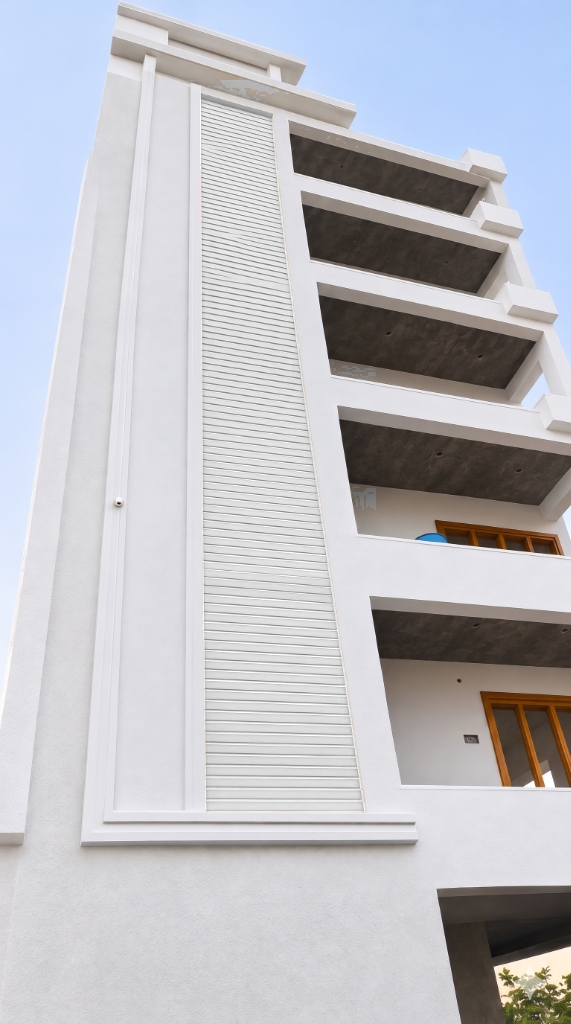
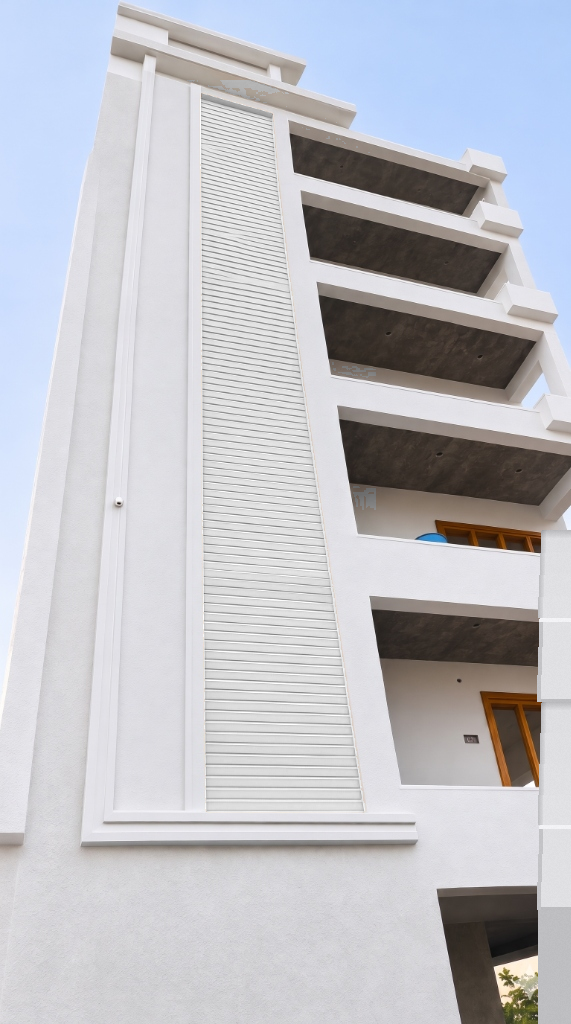
feat: add 5-floor continuous right balcony structural pillar, corner box blocks, and ground stilt pillars (Zone 9 & 17)

Changed region(s): [[0.9229, 0.5, 1.0, 1.0]]

diff --git a/app.js b/app.js
@@ -104,13 +104,13 @@ const ZONES = {
   },
   9: {
     id: 9, key: "balcony_box", group: "5-Floor Balcony Structure",
-    name: "Balcony Right-Corner Box Blocks & Pillars", shortName: "Corner Box Blocks",
-    aliases: ["corner", "corner box", "pillars", "balcony box", "right pillar"],
+    name: "Balcony Right-Corner Vertical Pillars & Box Blocks", shortName: "Balcony Corner Pillar",
+    aliases: ["pillar", "pillars", "corner", "corner pillar", "balcony pillar", "corner box", "balcony box", "right pillar", "vertical pillar", "another pillar"],
     pinColor: "#14b8a6",
-    pins: { render: {x:"90%", y:"38%"}, front: {x:"88%", y:"40%"}, side: {x:"66%", y:"40%"} },
-    surfaceType: "Protruding 3D Corner Blocks & Right Vertical Columns",
+    pins: { render: {x:"95%", y:"56%"}, front: {x:"88%", y:"40%"}, side: {x:"66%", y:"40%"} },
+    surfaceType: "Continuous Vertical Structural Pillar & 3D Corner Blocks Across All 5 Balcony Floors",
     recommendedProduct: "Apex Ultima Protek Duralife",
-    defaultColorId: 2
+    defaultColorId: 3
   },
   10: {
     id: 10, key: "balcony_inner", group: "5-Floor Balcony Structure",
@@ -181,31 +181,41 @@ const ZONES = {
     surfaceType: "3 Metal Entrance Gates with Enamel Finish",
     recommendedProduct: "Asian Paints Apcolite Premium Gloss Enamel",
     defaultColorId: 1
+  },
+  17: {
+    id: 17, key: "stilt_pillars", group: "Side Elevation & Street Compound (KKKKKKK)",
+    name: "Ground Stilt Parking Columns & Gate Pillars", shortName: "Stilt & Gate Pillars",
+    aliases: ["stilt", "stilt pillar", "stilt column", "parking column", "gate pillar", "gate post"],
+    pinColor: "#0284c7",
+    pins: { render: {x:"95%", y:"95%"}, front: {x:"50%", y:"84%"}, side: {x:"42%", y:"80%"} },
+    surfaceType: "Ground Floor Heavy-Duty Parking Columns & Entrance Gate Concrete Posts",
+    recommendedProduct: "Apex Ultima Protek Duralife",
+    defaultColorId: 3
   }
 };
 
 // 3. PRE-GENERATED 20 ALL-COMBINATION VARIATIONS
 const COMBINATIONS_GALLERY = [
-  { id: 1,  title: "Signature Gold & Charcoal",              file: "images/combinations/combo_2_3_1_2_3.jpg", map: {1:2, 2:3, 3:3, 4:2, 5:3, 6:1, 7:1, 8:2, 9:2, 10:7, 11:3, 12:8, 13:2, 14:3, 15:2, 16:1}, tag: "louvers-1" },
-  { id: 2,  title: "Brown Paper Louvers & Charcoal Trim",    file: "images/combinations/combo_2_3_5_2_3.jpg", map: {1:2, 2:3, 3:3, 4:2, 5:3, 6:5, 7:5, 8:2, 9:2, 10:7, 11:3, 12:8, 13:2, 14:3, 15:2, 16:5}, tag: "louvers-5" },
-  { id: 3,  title: "Stone Path Louvers & Charcoal Trim",     file: "images/combinations/combo_2_3_4_2_3.jpg", map: {1:2, 2:3, 3:3, 4:2, 5:3, 6:4, 7:4, 8:2, 9:2, 10:7, 11:3, 12:8, 13:2, 14:3, 15:2, 16:4}, tag: "louvers-4" },
-  { id: 4,  title: "Ice Age Louvers & Charcoal Frame",       file: "images/combinations/combo_2_3_2_2_3.jpg", map: {1:2, 2:3, 3:3, 4:2, 5:3, 6:2, 7:1, 8:2, 9:2, 10:7, 11:3, 12:8, 13:2, 14:3, 15:2, 16:3}, tag: "louvers-2" },
-  { id: 5,  title: "Monolith Charcoal Louvers & Trim",       file: "images/combinations/combo_2_3_3_2_3.jpg", map: {1:2, 2:3, 3:3, 4:2, 5:3, 6:3, 7:1, 8:2, 9:2, 10:7, 11:3, 12:8, 13:2, 14:3, 15:2, 16:3}, tag: "louvers-3" },
-  { id: 6,  title: "Slate Facade & Gold Louvers",            file: "images/combinations/combo_4_2_1_4_3.jpg", map: {1:4, 2:2, 3:2, 4:4, 5:2, 6:1, 7:1, 8:4, 9:2, 10:7, 11:3, 12:8, 13:4, 14:2, 15:4, 16:1}, tag: "louvers-1" },
-  { id: 7,  title: "Slate Facade & Brown Paper Louvers",     file: "images/combinations/combo_4_2_5_4_3.jpg", map: {1:4, 2:2, 3:2, 4:4, 5:2, 6:5, 7:5, 8:4, 9:2, 10:7, 11:3, 12:8, 13:4, 14:2, 15:4, 16:5}, tag: "louvers-5" },
-  { id: 8,  title: "Slate Facade & Charcoal Louvers",        file: "images/combinations/combo_4_2_3_4_3.jpg", map: {1:4, 2:2, 3:2, 4:4, 5:2, 6:3, 7:1, 8:4, 9:2, 10:7, 11:3, 12:8, 13:4, 14:2, 15:4, 16:3}, tag: "louvers-3" },
-  { id: 9,  title: "Slate Facade & Ice Age Louvers",         file: "images/combinations/combo_4_2_2_4_3.jpg", map: {1:4, 2:2, 3:2, 4:4, 5:2, 6:2, 7:1, 8:4, 9:2, 10:7, 11:3, 12:8, 13:4, 14:2, 15:4, 16:2}, tag: "louvers-2" },
-  { id: 10, title: "Dual-Tone Slate Tower & Ice Balconies",  file: "images/combinations/combo_4_3_1_2_3.jpg", map: {1:4, 2:3, 3:3, 4:2, 5:3, 6:1, 7:1, 8:2, 9:3, 10:7, 11:3, 12:8, 13:4, 14:3, 15:2, 16:1}, tag: "louvers-1" },
-  { id: 11, title: "Warm Earth Frame & Gold Louvers",        file: "images/combinations/combo_2_5_1_2_5.jpg", map: {1:2, 2:5, 3:5, 4:2, 5:5, 6:1, 7:6, 8:2, 9:5, 10:7, 11:5, 12:8, 13:2, 14:5, 15:2, 16:1}, tag: "louvers-1" },
-  { id: 12, title: "Brown Paper Frame & Charcoal Louvers",   file: "images/combinations/combo_2_5_3_2_3.jpg", map: {1:2, 2:5, 3:5, 4:2, 5:5, 6:3, 7:3, 8:2, 9:5, 10:7, 11:3, 12:8, 13:2, 14:5, 15:2, 16:3}, tag: "louvers-3" },
-  { id: 13, title: "Seamless Brown Paper Feature Wall",      file: "images/combinations/combo_2_5_5_2_3.jpg", map: {1:2, 2:5, 3:5, 4:5, 5:3, 6:5, 7:6, 8:2, 9:3, 10:7, 11:3, 12:8, 13:2, 14:5, 15:2, 16:5}, tag: "louvers-5" },
-  { id: 14, title: "Brown Paper Tower & Gold Louvers",       file: "images/combinations/combo_5_3_1_2_3.jpg", map: {1:5, 2:3, 3:3, 4:2, 5:3, 6:1, 7:1, 8:2, 9:3, 10:7, 11:3, 12:8, 13:5, 14:3, 15:5, 16:1}, tag: "louvers-1" },
-  { id: 15, title: "Warm Latte Facade & Charcoal Slats",     file: "images/combinations/combo_5_2_3_5_3.jpg", map: {1:5, 2:2, 3:2, 4:5, 5:2, 6:3, 7:1, 8:5, 9:2, 10:7, 11:3, 12:8, 13:5, 14:2, 15:5, 16:3}, tag: "louvers-3" },
-  { id: 16, title: "Minimalist Ice Age & Gold Slats",        file: "images/combinations/combo_2_2_1_2_4.jpg", map: {1:2, 2:2, 3:2, 4:2, 5:2, 6:1, 7:1, 8:2, 9:2, 10:7, 11:4, 12:8, 13:2, 14:4, 15:2, 16:1}, tag: "louvers-1" },
-  { id: 17, title: "Stone Path Trim & Brown Paper Slats",    file: "images/combinations/combo_2_4_5_4_3.jpg", map: {1:2, 2:4, 3:4, 4:2, 5:4, 6:5, 7:5, 8:4, 9:2, 10:7, 11:3, 12:8, 13:2, 14:4, 15:2, 16:5}, tag: "louvers-5" },
-  { id: 18, title: "Bold Charcoal Tower & Ice Balconies",    file: "images/combinations/combo_3_2_1_2_3.jpg", map: {1:3, 2:2, 3:2, 4:3, 5:2, 6:1, 7:1, 8:2, 9:3, 10:7, 11:3, 12:8, 13:3, 14:2, 15:2, 16:1}, tag: "louvers-1" },
-  { id: 19, title: "Slate Wall, Brown Trim & Ice Slats",     file: "images/combinations/combo_4_5_2_2_3.jpg", map: {1:4, 2:5, 3:5, 4:2, 5:5, 6:2, 7:6, 8:2, 9:5, 10:7, 11:3, 12:8, 13:4, 14:5, 15:4, 16:5}, tag: "louvers-2" },
-  { id: 20, title: "Tri-Color Gold, Charcoal & Brown Paper", file: "images/combinations/combo_2_3_1_5_3.jpg", map: {1:2, 2:3, 3:3, 4:5, 5:3, 6:1, 7:6, 8:5, 9:3, 10:7, 11:3, 12:8, 13:2, 14:3, 15:5, 16:1}, tag: "louvers-1" }
+  { id: 1,  title: "Signature Gold & Charcoal",              file: "images/combinations/combo_2_3_1_2_3.jpg", map: {1:2, 2:3, 3:3, 4:2, 5:3, 6:1, 7:1, 8:2, 9:3, 10:7, 11:3, 12:8, 13:2, 14:3, 15:2, 16:1, 17:3}, tag: "louvers-1" },
+  { id: 2,  title: "Brown Paper Louvers & Charcoal Trim",    file: "images/combinations/combo_2_3_5_2_3.jpg", map: {1:2, 2:3, 3:3, 4:2, 5:3, 6:5, 7:5, 8:2, 9:3, 10:7, 11:3, 12:8, 13:2, 14:3, 15:2, 16:5, 17:3}, tag: "louvers-5" },
+  { id: 3,  title: "Stone Path Louvers & Charcoal Trim",     file: "images/combinations/combo_2_3_4_2_3.jpg", map: {1:2, 2:3, 3:3, 4:2, 5:3, 6:4, 7:4, 8:2, 9:3, 10:7, 11:3, 12:8, 13:2, 14:3, 15:2, 16:4, 17:3}, tag: "louvers-4" },
+  { id: 4,  title: "Ice Age Louvers & Charcoal Frame",       file: "images/combinations/combo_2_3_2_2_3.jpg", map: {1:2, 2:3, 3:3, 4:2, 5:3, 6:2, 7:1, 8:2, 9:3, 10:7, 11:3, 12:8, 13:2, 14:3, 15:2, 16:3, 17:3}, tag: "louvers-2" },
+  { id: 5,  title: "Monolith Charcoal Louvers & Trim",       file: "images/combinations/combo_2_3_3_2_3.jpg", map: {1:2, 2:3, 3:3, 4:2, 5:3, 6:3, 7:1, 8:2, 9:3, 10:7, 11:3, 12:8, 13:2, 14:3, 15:2, 16:3, 17:3}, tag: "louvers-3" },
+  { id: 6,  title: "Slate Facade & Gold Louvers",            file: "images/combinations/combo_4_2_1_4_3.jpg", map: {1:4, 2:2, 3:2, 4:4, 5:2, 6:1, 7:1, 8:4, 9:2, 10:7, 11:3, 12:8, 13:4, 14:2, 15:4, 16:1, 17:2}, tag: "louvers-1" },
+  { id: 7,  title: "Slate Facade & Brown Paper Louvers",     file: "images/combinations/combo_4_2_5_4_3.jpg", map: {1:4, 2:2, 3:2, 4:4, 5:2, 6:5, 7:5, 8:4, 9:2, 10:7, 11:3, 12:8, 13:4, 14:2, 15:4, 16:5, 17:2}, tag: "louvers-5" },
+  { id: 8,  title: "Slate Facade & Charcoal Louvers",        file: "images/combinations/combo_4_2_3_4_3.jpg", map: {1:4, 2:2, 3:2, 4:4, 5:2, 6:3, 7:1, 8:4, 9:2, 10:7, 11:3, 12:8, 13:4, 14:2, 15:4, 16:3, 17:2}, tag: "louvers-3" },
+  { id: 9,  title: "Slate Facade & Ice Age Louvers",         file: "images/combinations/combo_4_2_2_4_3.jpg", map: {1:4, 2:2, 3:2, 4:4, 5:2, 6:2, 7:1, 8:4, 9:2, 10:7, 11:3, 12:8, 13:4, 14:2, 15:4, 16:2, 17:2}, tag: "louvers-2" },
+  { id: 10, title: "Dual-Tone Slate Tower & Ice Balconies",  file: "images/combinations/combo_4_3_1_2_3.jpg", map: {1:4, 2:3, 3:3, 4:2, 5:3, 6:1, 7:1, 8:2, 9:3, 10:7, 11:3, 12:8, 13:4, 14:3, 15:2, 16:1, 17:3}, tag: "louvers-1" },
+  { id: 11, title: "Warm Earth Frame & Gold Louvers",        file: "images/combinations/combo_2_5_1_2_5.jpg", map: {1:2, 2:5, 3:5, 4:2, 5:5, 6:1, 7:6, 8:2, 9:5, 10:7, 11:5, 12:8, 13:2, 14:5, 15:2, 16:1, 17:5}, tag: "louvers-1" },
+  { id: 12, title: "Brown Paper Frame & Charcoal Louvers",   file: "images/combinations/combo_2_5_3_2_3.jpg", map: {1:2, 2:5, 3:5, 4:2, 5:5, 6:3, 7:3, 8:2, 9:5, 10:7, 11:3, 12:8, 13:2, 14:5, 15:2, 16:3, 17:3}, tag: "louvers-3" },
+  { id: 13, title: "Seamless Brown Paper Feature Wall",      file: "images/combinations/combo_2_5_5_2_3.jpg", map: {1:2, 2:5, 3:5, 4:5, 5:3, 6:5, 7:6, 8:2, 9:3, 10:7, 11:3, 12:8, 13:2, 14:5, 15:2, 16:5, 17:3}, tag: "louvers-5" },
+  { id: 14, title: "Brown Paper Tower & Gold Louvers",       file: "images/combinations/combo_5_3_1_2_3.jpg", map: {1:5, 2:3, 3:3, 4:2, 5:3, 6:1, 7:1, 8:2, 9:3, 10:7, 11:3, 12:8, 13:5, 14:3, 15:5, 16:1, 17:3}, tag: "louvers-1" },
+  { id: 15, title: "Warm Latte Facade & Charcoal Slats",     file: "images/combinations/combo_5_2_3_5_3.jpg", map: {1:5, 2:2, 3:2, 4:5, 5:2, 6:3, 7:1, 8:5, 9:2, 10:7, 11:3, 12:8, 13:5, 14:2, 15:5, 16:3, 17:2}, tag: "louvers-3" },
+  { id: 16, title: "Minimalist Ice Age & Gold Slats",        file: "images/combinations/combo_2_2_1_2_4.jpg", map: {1:2, 2:2, 3:2, 4:2, 5:2, 6:1, 7:1, 8:2, 9:2, 10:7, 11:4, 12:8, 13:2, 14:4, 15:2, 16:1, 17:2}, tag: "louvers-1" },
+  { id: 17, title: "Stone Path Trim & Brown Paper Slats",    file: "images/combinations/combo_2_4_5_4_3.jpg", map: {1:2, 2:4, 3:4, 4:2, 5:4, 6:5, 7:5, 8:4, 9:2, 10:7, 11:3, 12:8, 13:2, 14:4, 15:2, 16:5, 17:3}, tag: "louvers-5" },
+  { id: 18, title: "Bold Charcoal Tower & Ice Balconies",    file: "images/combinations/combo_3_2_1_2_3.jpg", map: {1:3, 2:2, 3:2, 4:3, 5:2, 6:1, 7:1, 8:2, 9:3, 10:7, 11:3, 12:8, 13:3, 14:2, 15:2, 16:1, 17:3}, tag: "louvers-1" },
+  { id: 19, title: "Slate Wall, Brown Trim & Ice Slats",     file: "images/combinations/combo_4_5_2_2_3.jpg", map: {1:4, 2:5, 3:5, 4:2, 5:5, 6:2, 7:6, 8:2, 9:5, 10:7, 11:3, 12:8, 13:4, 14:5, 15:4, 16:5, 17:5}, tag: "louvers-2" },
+  { id: 20, title: "Tri-Color Gold, Charcoal & Brown Paper", file: "images/combinations/combo_2_3_1_5_3.jpg", map: {1:2, 2:3, 3:3, 4:5, 5:3, 6:1, 7:6, 8:5, 9:3, 10:7, 11:3, 12:8, 13:2, 14:3, 15:5, 16:1, 17:3}, tag: "louvers-1" }
 ];
 
 // 4. CAMERA VIEWS CONFIGURATION
@@ -258,12 +268,12 @@ function hexToRgb(hex) {
 }
 
 function initState() {
-  const saved = localStorage.getItem("paintStudio16ZoneV4");
+  const saved = localStorage.getItem("paintStudio17ZoneV5");
   if (saved) {
     try {
       const parsed = JSON.parse(saved);
       if (parsed.colors) COLOR_MAP = parsed.colors;
-      if (parsed.assignments && Object.keys(parsed.assignments).length >= 12) {
+      if (parsed.assignments && Object.keys(parsed.assignments).length >= 17) {
         currentAssignments = parsed.assignments;
         return;
       }
@@ -281,7 +291,7 @@ function resetToDefaults() {
 }
 
 function saveState() {
-  localStorage.setItem("paintStudio16ZoneV4", JSON.stringify({
+  localStorage.setItem("paintStudio17ZoneV5", JSON.stringify({
     colors: COLOR_MAP,
     assignments: currentAssignments
   }));
@@ -370,11 +380,11 @@ function renderPhotorealisticCanvas() {
     return;
   }
 
-  const zoneR = new Uint8Array(17);
-  const zoneG = new Uint8Array(17);
-  const zoneB = new Uint8Array(17);
+  const zoneR = new Uint8Array(19);
+  const zoneG = new Uint8Array(19);
+  const zoneB = new Uint8Array(19);
 
-  for (let z = 1; z <= 16; z++) {
+  for (let z = 1; z <= 17; z++) {
     const cid = currentAssignments[z] || ZONES[z].defaultColorId;
     const c = COLOR_MAP[cid] || COLOR_MAP[1];
     const rgb = c.rgb || hexToRgb(c.hex);
@@ -388,7 +398,7 @@ function renderPhotorealisticCanvas() {
     const zid = zonePixels[i];
     const alpha = zonePixels[i + 1];
 
-    if (zid === 0 || zid > 16 || alpha === 0) {
+    if (zid === 0 || zid > 17 || alpha === 0) {
       dst[i] = basePixels[i];
       dst[i + 1] = basePixels[i + 1];
       dst[i + 2] = basePixels[i + 2];
@@ -441,7 +451,7 @@ function setupCanvasInteraction() {
 
   canvas.addEventListener("click", (e) => {
     const zid = getZoneAtEvent(e);
-    if (zid >= 1 && zid <= 16) {
+    if (zid >= 1 && zid <= 17) {
       selectZone(zid);
     }
   });
@@ -449,7 +459,7 @@ function setupCanvasInteraction() {
   canvas.addEventListener("mousemove", (e) => {
     const zid = getZoneAtEvent(e);
     const tooltip = document.getElementById("hover-tooltip");
-    if (zid >= 1 && zid <= 16) {
+    if (zid >= 1 && zid <= 17) {
       canvas.style.cursor = "pointer";
       const z = ZONES[zid];
       const cid = currentAssignments[zid];
@@ -927,7 +937,7 @@ function updateScheduleTable() {
 
 function copyFormulation() {
   let spec = "========================================================\n";
-  spec += "COMPLETE 16-ZONE ARCHITECTURAL PAINT SCHEDULE\n";
+  spec += "COMPLETE 17-ZONE ARCHITECTURAL PAINT SCHEDULE\n";
   spec += "========================================================\n\n";
   Object.keys(ZONES).forEach(k => {
     const zid = parseInt(k);
@@ -938,7 +948,7 @@ function copyFormulation() {
   });
   spec += "\nCONSTRUCTIBLE AI PROMPT:\n" + buildConstructiblePrompt();
   navigator.clipboard.writeText(spec).then(() => {
-    alert("Copied all 16 Zone Paint Specifications & AI Prompt to clipboard!");
+    alert("Copied all 17 Zone Paint Specifications & AI Prompt to clipboard!");
   });
 }
 

diff --git a/index.html b/index.html
@@ -33,7 +33,7 @@
             </span>
           </div>
           <p class="text-[11px] text-slate-400 truncate">
-            16 Building Components • 3 Multi-Angle Views • 20+ Real-Time Combinations
+            17 Building Components • All Balcony & Stilt Pillars • 3 Multi-Angle Views
           </p>
         </div>
       </div>
@@ -197,17 +197,17 @@
           <div id="prompt-feedback" class="text-[11px] mt-1 text-slate-400"></div>
         </div>
 
-        <!-- All 16 Extracted Building Component Cards -->
+        <!-- All 17 Extracted Building Component Cards -->
         <div class="glass-panel p-4 rounded-2xl">
           <div class="flex items-center justify-between mb-3 pb-2 border-b border-slate-800">
             <div>
               <h3 class="text-xs font-black uppercase tracking-wider text-white">
                 Component-by-Component Color Selector
               </h3>
-              <p class="text-[11px] text-slate-400">Tap any shade [1]–[8] to paint any of the 16 architectural elements</p>
+              <p class="text-[11px] text-slate-400">Tap any shade [1]–[8] to paint any of the 17 architectural elements</p>
             </div>
             <span class="text-[10px] font-mono px-2.5 py-0.5 rounded-full bg-blue-500/20 text-blue-300 border border-blue-500/30">
-              16 Architecture Zones
+              17 Architecture Zones
             </span>
           </div>
 
